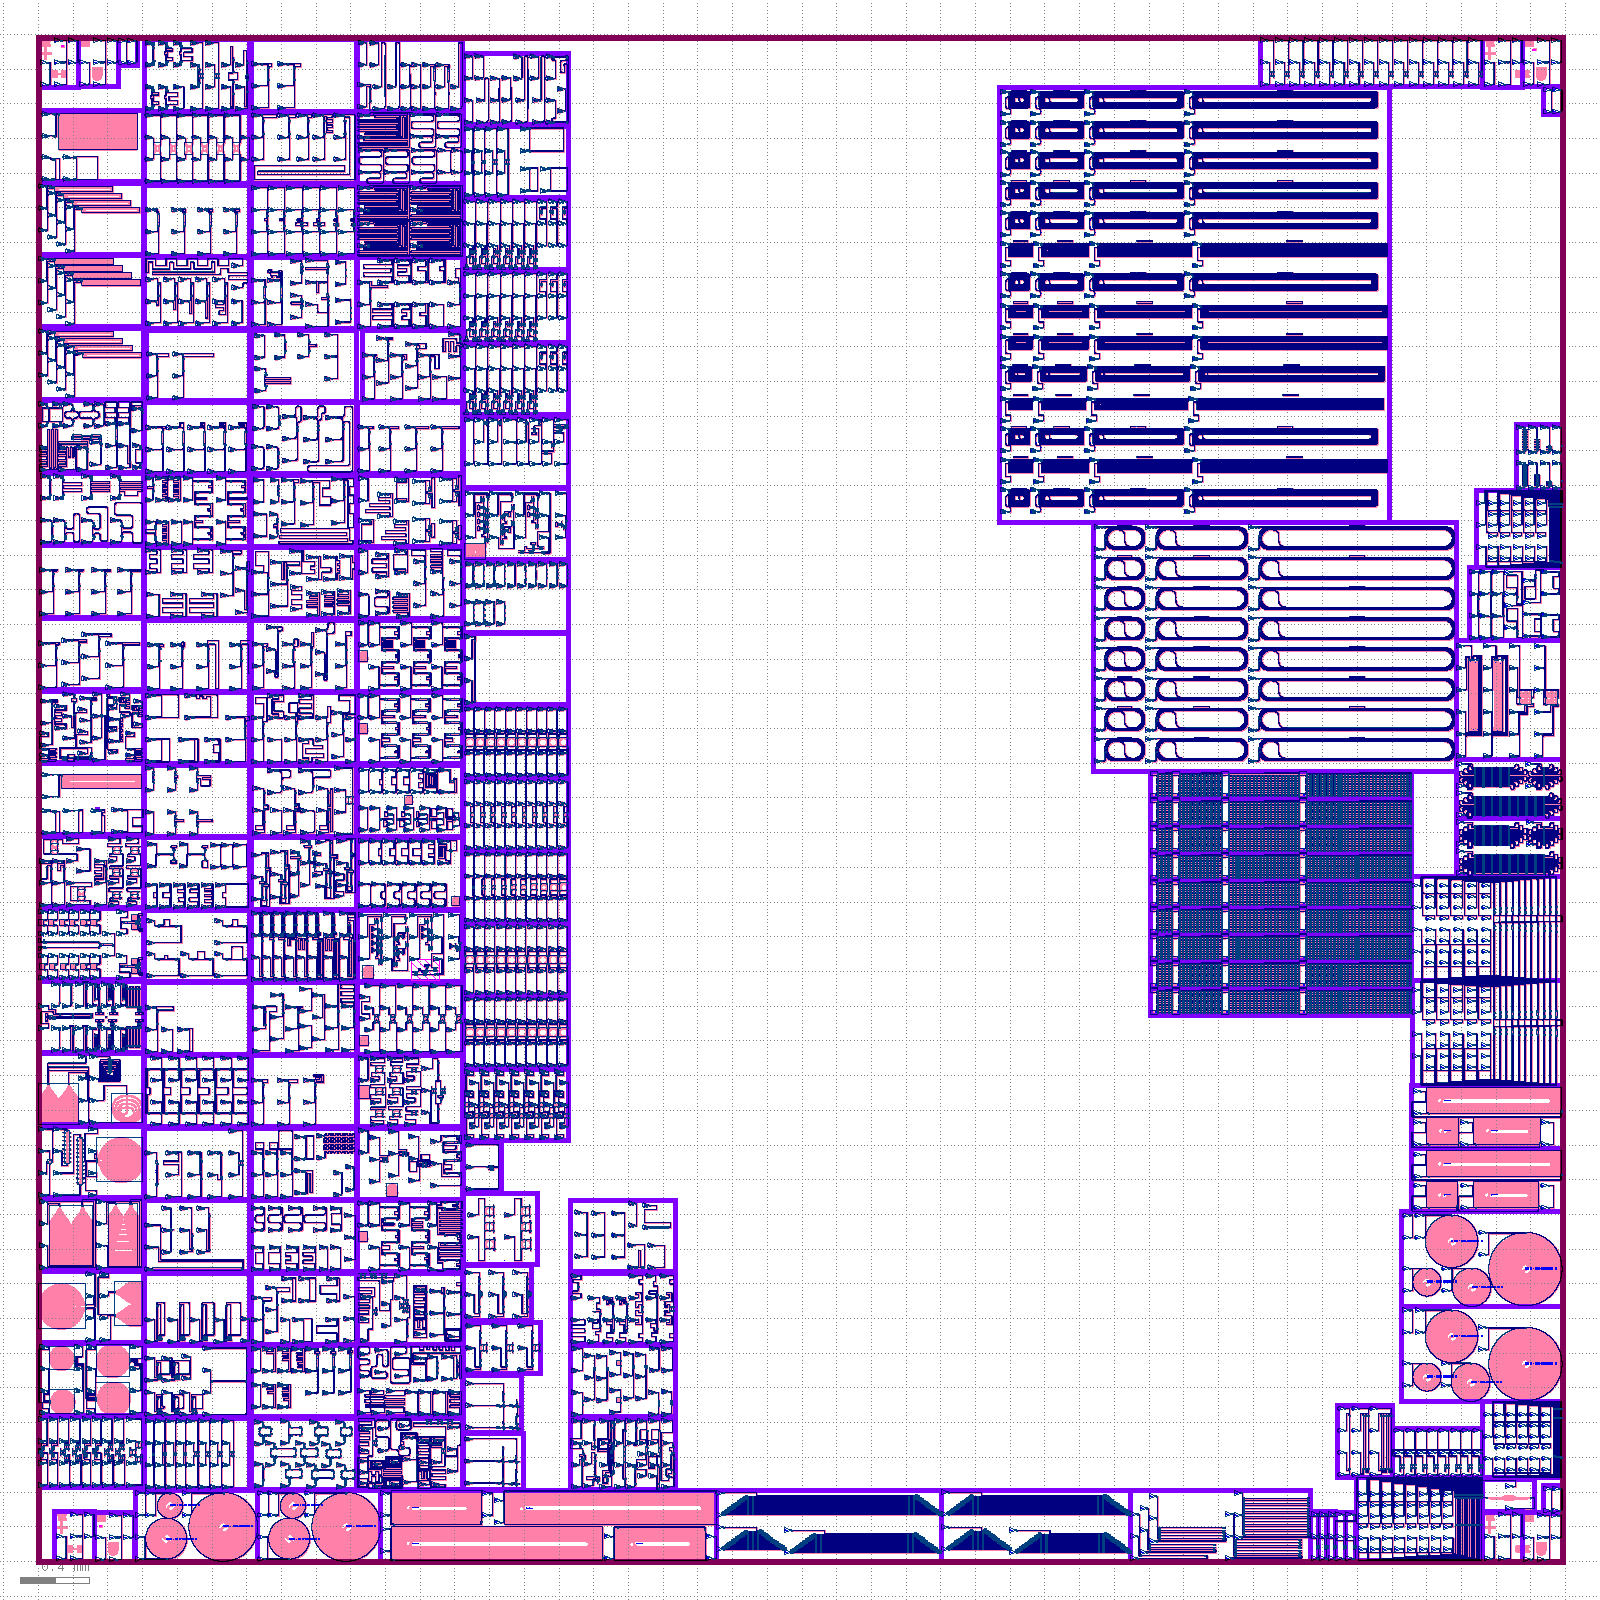
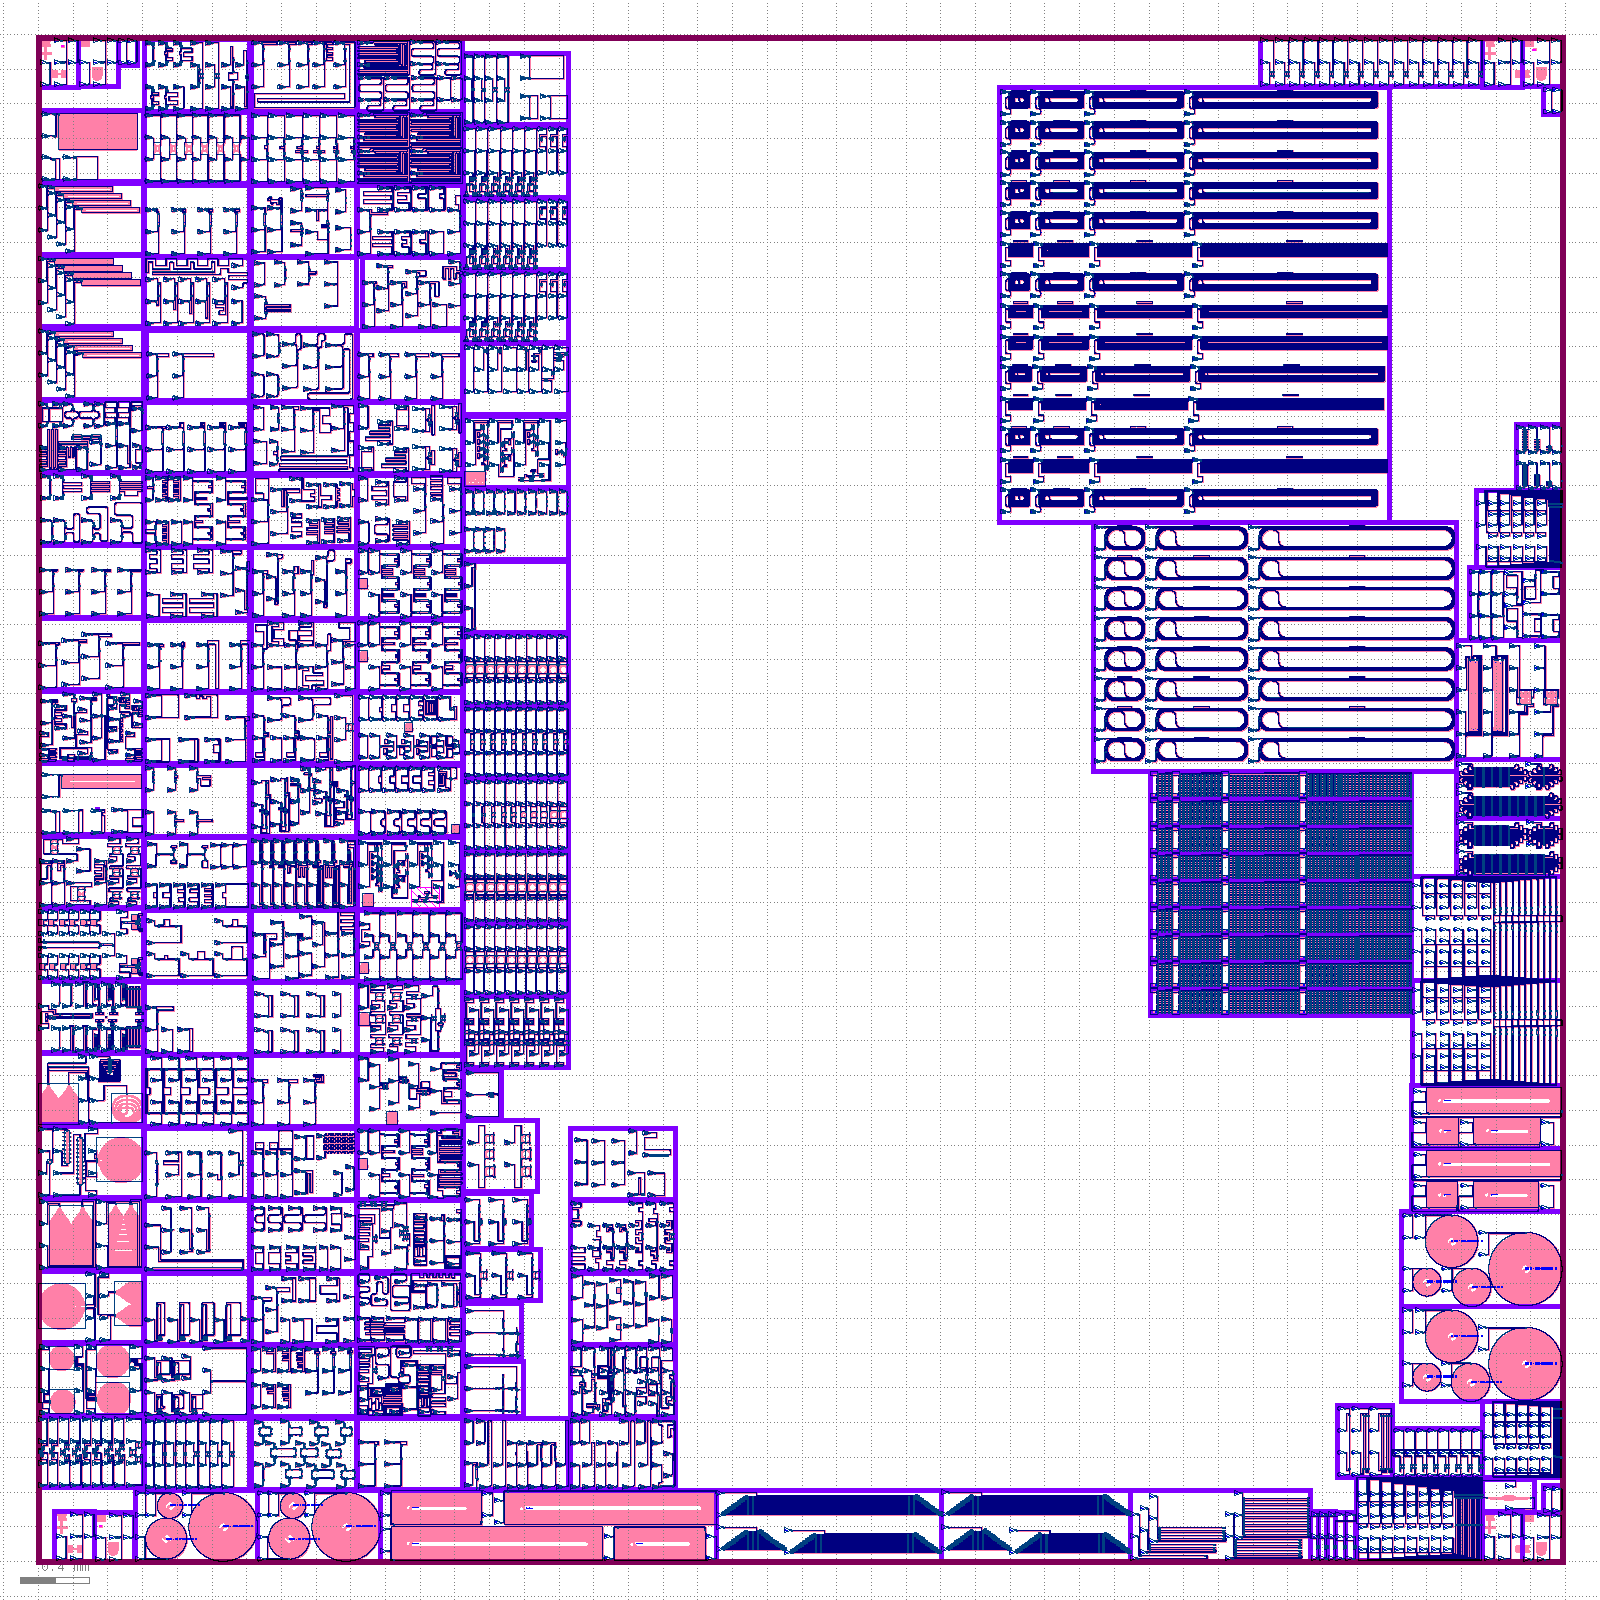
Aggregation layout: https://github.com/SiEPIC/openEBL-2026-05/actions/runs/25951750738/artifacts/7030161848

Changed region(s): [[0.1562, 0.0, 0.4375, 0.9375]]

diff --git a/README.md b/README.md
@@ -91,5 +91,5 @@ Will be added here.
 
 Click on the following link to download the EBeam.oas merged layout file:
 <!-- start-link -->
-https://github.com/SiEPIC/openEBL-2026-05/actions/runs/25951532356/artifacts/7030093708
+https://github.com/SiEPIC/openEBL-2026-05/actions/runs/25951750738/artifacts/7030161848
 <!-- end-link -->